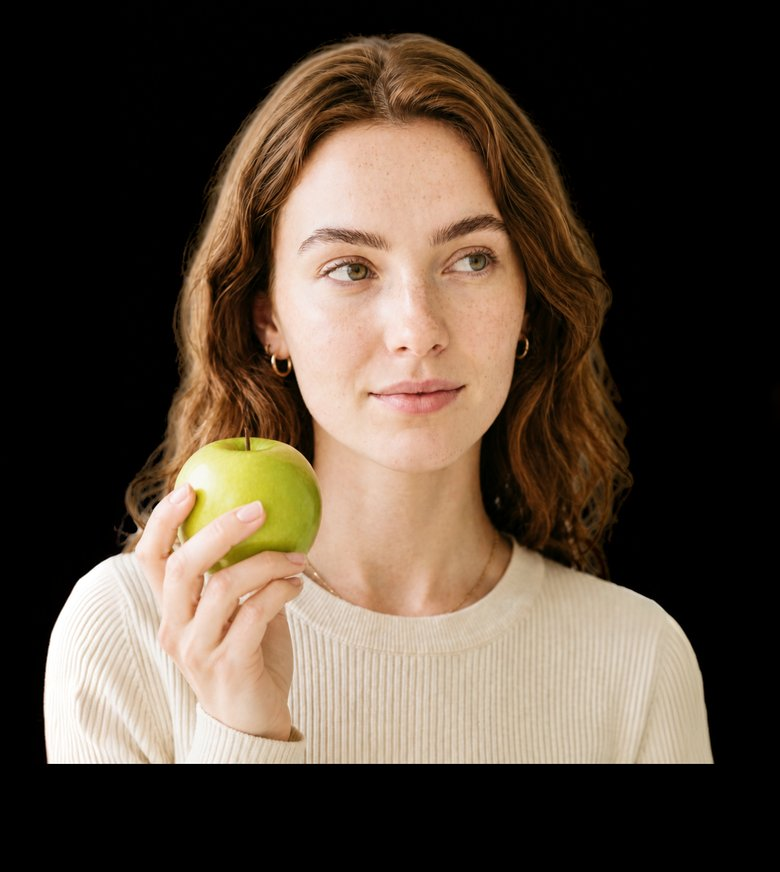
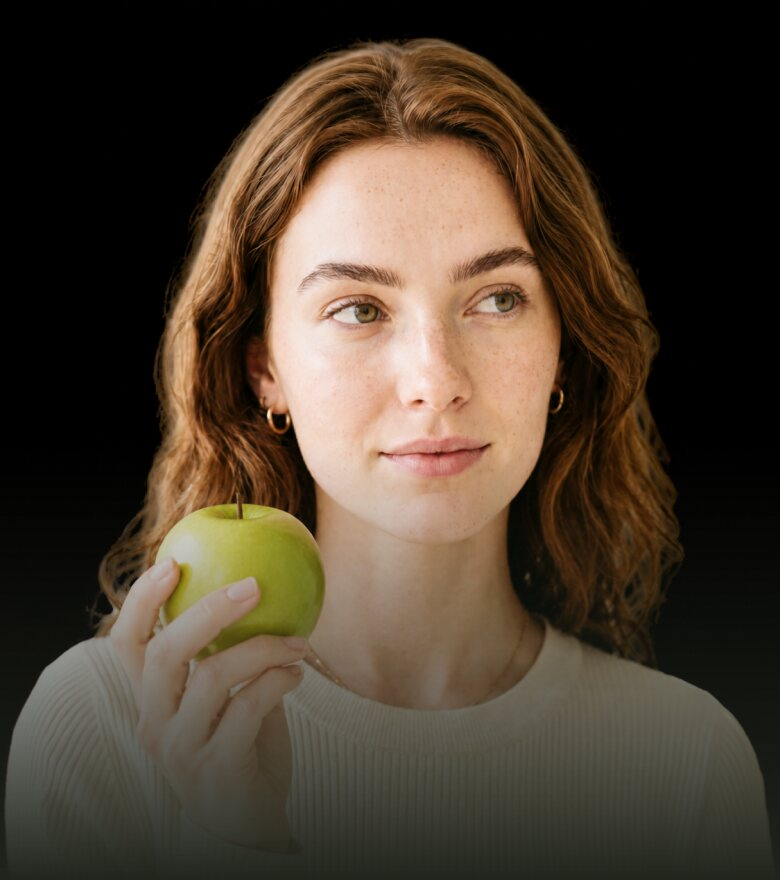
site: home hero matches Figma S01 (1385:283, 1424:48452)
- Desktop background rebuilt from the Figma layers (olive gradient + desaturated waves,
  linear burn, mirrored cut-out) instead of the blog cover; content anchored 64px from the
  bottom, hero height clamp(560px, 100svh, 900px), lifted above the cookie card on short windows.
- Header Transparent: white «Записаться на тест», light download icon, no extra «Связаться».
- CTA uses the mdi-light plus icon, «Пример отчёта» in the same row, desktop fact captions.
- 768–1100: tablet composition (photo background, copy at the bottom) instead of a giant face.
- 390: exported photo frame 1424:48453 fading into olive, texture at 45% over black.

diff --git a/apps/site/app/globals.css b/apps/site/app/globals.css
@@ -2575,3 +2575,90 @@ article.is-open .f-answer > div { opacity: 1; transition-delay: 80ms; }
   .lf-done-mark svg, .lf-ok { animation: none; stroke-dashoffset: 0; }
   .seg-ind, .lf-err, .lf-slide, .m04, .acc-plus::before, .acc-plus::after, .acc-body > div, .f-answer > div { transition: none; }
 }
+
+/* ===========================================================================
+   Home S01 hero — Figma 1385:283 (1440) and 1424:48452 (390).
+   Background = the frame's olive gradient + desaturated waves (linear burn) + the mirrored cut-out,
+   baked into /figma/home/hero-desktop*.webp. Content sits on the bottom edge (64px), so a short
+   window still shows the headline instead of pushing it below the fold.
+   =========================================================================== */
+.fact-d, .fact-m { font-style: normal; }
+.on-dark .example-link img { filter: invert(1); }
+.hero-book-plus { flex: none; }
+@media (min-width: 768px) {
+  body [data-s="s01"].dark-hero.home-hero {
+    position: relative; display: block; box-sizing: border-box;
+    height: clamp(560px, 100svh, 900px); min-height: 0; max-height: none; padding: 0;
+    overflow: hidden; border-radius: 0; background: #21251d;
+  }
+  body [data-s="s01"].home-hero .hero-media { position: absolute; inset: 0; display: block; width: auto; height: auto; max-height: none; margin: 0; background: none; overflow: hidden; }
+  body [data-s="s01"].home-hero .hero-media::after { display: none; }
+  body [data-s="s01"].home-hero .hero-media picture { display: block; position: absolute; inset: 0; }
+  body [data-s="s01"].home-hero .hero-media img.bg {
+    position: absolute; inset: 0; width: 100%; height: 100%; object-fit: cover; object-position: 50% 100%;
+    opacity: 1; mask-image: none; -webkit-mask-image: none;
+  }
+  body [data-s="s01"].home-hero .shade { display: none; }
+  body [data-s="s01"].home-hero .inner {
+    position: absolute; left: 0; right: 0; bottom: 64px; top: auto; z-index: 1;
+    width: min(1344px, calc(100% - 96px)); max-width: none; margin: 0 auto; padding: 0;
+    display: flex; flex-direction: column; gap: 32px; background: none;
+  }
+  body [data-s="s01"].home-hero .hero-top { display: flex; flex-direction: row; align-items: flex-start; justify-content: space-between; gap: 48px; padding: 0; }
+  body [data-s="s01"].home-hero h1 { margin: 0; font-weight: 300; font-size: 64px; line-height: 68px; letter-spacing: -2px; color: #f8f9f6; max-width: 760px; text-align: left; }
+  body [data-s="s01"].home-hero h1 .hero-h1-mobile { display: none; }
+  body [data-s="s01"].home-hero h1 .hero-h1-desktop { display: block; }
+  body [data-s="s01"].home-hero .hero-side { width: 367px; flex: 0 0 367px; padding: 21px 0 0; display: flex; flex-direction: column; gap: 20px; align-self: auto; }
+  body [data-s="s01"].home-hero .lead { margin: 0; max-width: 335px; font-size: 20px; line-height: 24px; color: rgba(248, 249, 246, 0.65); text-align: left; }
+  body [data-s="s01"].home-hero .hero-actions { display: flex; flex-direction: row; flex-wrap: nowrap; align-items: center; gap: 8px; margin: 0; width: auto; white-space: nowrap; }
+  body [data-s="s01"].home-hero .hero-book-btn { width: auto; height: 48px; padding: 0 12px 0 16px; gap: 8px; border-radius: 4px; justify-content: center; font-size: 16px; line-height: 20px; }
+  body [data-s="s01"].home-hero .hero-report-link { display: none; }
+  body [data-s="s01"].home-hero .hero-report-btn { display: inline-flex; height: 48px; padding: 0 16px; border-color: transparent; background: transparent; color: #f8f9f6; }
+  body [data-s="s01"].home-hero .hero-report-btn:hover { background: rgba(248, 249, 246, 0.1); }
+  body [data-s="s01"].home-hero .facts { display: flex; flex-wrap: wrap; gap: 8px; margin: 0; width: auto; }
+  body [data-s="s01"].home-hero .facts > div {
+    flex: none; display: flex; align-items: baseline; gap: 12px; padding: 16px 20px; border-radius: 4px;
+    background: rgba(0, 0, 0, 0.25); backdrop-filter: blur(24px); -webkit-backdrop-filter: blur(24px);
+  }
+  body [data-s="s01"].home-hero .facts > div + div::before { display: none; }
+  body [data-s="s01"].home-hero .facts strong { display: inline; font-size: 24px; line-height: 28px; letter-spacing: -0.5px; font-weight: 300; color: #e7f551; }
+  body [data-s="s01"].home-hero .facts span, body [data-s="s01"].home-hero .facts .facts-lines { display: inline; margin: 0; font-size: 16px; line-height: 20px; color: #f8f9f6; }
+  body [data-s="s01"].home-hero .facts .fact-m { display: none; }
+}
+@media (min-width: 768px) and (max-width: 1100px) {
+  /* Tablet: the light bar header stays on top (as on 390), the photo fills the rest. */
+  body [data-s="s01"].dark-hero.home-hero { height: clamp(560px, 100svh, 900px); padding-top: var(--header); }
+  body [data-s="s01"].home-hero .hero-media { top: var(--header); }
+  body [data-s="s01"].home-hero .inner { bottom: 40px; width: calc(100% - 64px); gap: 24px; }
+  body [data-s="s01"].home-hero .hero-top { flex-direction: column; gap: 16px; }
+  body [data-s="s01"].home-hero h1 { font-size: clamp(40px, 5.2vw, 56px); line-height: 1.07; letter-spacing: -1.5px; }
+  body [data-s="s01"].home-hero .hero-side { width: auto; flex: none; padding: 0; flex-direction: row; align-items: center; justify-content: space-between; gap: 24px; }
+  body [data-s="s01"].home-hero .lead { font-size: 18px; line-height: 22px; max-width: 360px; }
+  body [data-s="s01"].home-hero .facts .fact-d { display: none; }
+  body [data-s="s01"].home-hero .facts .fact-m { display: inline; }
+  body [data-s="s01"].home-hero .facts .facts-lines .fact-m + .fact-m::before { content: " "; }
+}
+@media (min-width: 1101px) and (max-width: 1279px) {
+  body [data-s="s01"].home-hero h1 { font-size: 52px; line-height: 56px; letter-spacing: -1.5px; }
+}
+@media (max-width: 767px) {
+  /* 390: the photo frame 1424:48453 exported as is (440/390, fades into olive), the texture starts under it. */
+  body [data-s="s01"].dark-hero.home-hero { --home-photo-h: calc(440 / 390 * 100vw); background: linear-gradient(rgba(0, 0, 0, 0.55), rgba(0, 0, 0, 0.55)), #000 url("/figma/home/hero-panel-texture.webp") center / cover no-repeat; } /* texture fill at 45% over black */
+  body [data-s="s01"].home-hero .hero-media { background: #000; height: var(--home-photo-h); max-height: none; }
+  body [data-s="s01"].home-hero .hero-media::after { display: none; }
+  body [data-s="s01"].home-hero .hero-media img.bg { object-position: 50% 0; }
+  body [data-s="s01"].home-hero .inner {
+    margin-top: 0; padding: 0 20px 32px;
+    background: none;
+  }
+  body [data-s="s01"].home-hero .hero-top { gap: 16px; }
+  body [data-s="s01"].home-hero .lead { font-size: 16px; line-height: 20px; color: rgba(248, 249, 246, 0.65); }
+  body [data-s="s01"].home-hero .facts .fact-d { display: none; }
+  body [data-s="s01"].home-hero .facts .fact-m { display: block; }
+  body [data-s="s01"].home-hero .hero-book-plus { width: 24px; height: 24px; }
+}
+/* A short window with the cookie card up: lift the hero copy above the card instead of hiding it. */
+@media (min-width: 768px) and (max-height: 820px) {
+  body [data-s="s01"].home-hero .inner { transition: bottom 280ms var(--ease); }
+  body:has(.cookie:not(.is-leaving)) [data-s="s01"].home-hero .inner { bottom: 136px; }
+}

diff --git a/apps/site/components/HomePage.tsx b/apps/site/components/HomePage.tsx
@@ -334,12 +334,13 @@ export function HomePage() {
           <div className="hero-media">
             <picture>
               <source
-                media="(max-width: 1100px)"
+                media="(max-width: 767px)"
                 srcSet="/figma/home/hero-photo-mobile.webp"
                 type="image/webp"
               />
-              <source media="(max-width: 1100px)" srcSet="/figma/home/hero-photo-mobile.jpg" />
-              <img className="bg" src="/blog/cover-lactose.png" alt="" />
+              <source media="(max-width: 767px)" srcSet="/figma/home/hero-photo-mobile.jpg" />
+              <source srcSet="/figma/home/hero-desktop.webp 1x, /figma/home/hero-desktop@2x.webp 2x" type="image/webp" />
+              <img className="bg" src="/figma/home/hero-desktop.jpg" alt="" />
             </picture>
           </div>
           <div className="shade" aria-hidden />
@@ -358,7 +359,9 @@ export function HomePage() {
                 <div className="hero-actions">
                   <button className="btn btn-light hero-book-btn" type="button" onClick={() => window.dispatchEvent(new Event("fox:book"))}>
                     <span>Записаться на тест</span>
-                    <span className="hero-book-plus" aria-hidden>+</span>
+                    <svg className="hero-book-plus" viewBox="0 0 24 24" width="24" height="24" aria-hidden>
+                      <path d="M12 5v14M5 12h14" fill="none" stroke="currentColor" strokeWidth="1.2" strokeLinecap="round" />
+                    </svg>
                   </button>
                   <Link className="hero-report-link" href="/report">
                     Пример отчёта
@@ -370,9 +373,10 @@ export function HomePage() {
               </div>
             </div>
             <div className="facts">
+              {/* Desktop frame 1385:283 says «286 продуктов · покажет тест», «7–10 дней · до результата»; the 390 frame keeps the short form. */}
               <div><strong>1 сеанс</strong><span>сдачи крови</span></div>
-              <div><strong>286</strong><span>продуктов</span></div>
-              <div><strong>7–10</strong><span className="facts-lines"><span>дней до</span><span>результата</span></span></div>
+              <div><strong>286<i className="fact-d"> продуктов</i></strong><span><i className="fact-d">покажет тест</i><i className="fact-m">продуктов</i></span></div>
+              <div><strong>7–10<i className="fact-d"> дней</i></strong><span className="facts-lines"><i className="fact-d">до результата</i><span className="fact-m">дней до</span><span className="fact-m">результата</span></span></div>
             </div>
           </div>
         </section>

diff --git a/apps/site/e2e/site.spec.ts b/apps/site/e2e/site.spec.ts
@@ -66,7 +66,8 @@ test("dark hero sits under the header", async ({ page }) => {
       const h = header.getBoundingClientRect();
       const e = hero.getBoundingClientRect();
       const mobile = window.matchMedia("(max-width: 1100px)").matches;
-      if (route === "/" && mobile) {
+      const phone = window.matchMedia("(max-width: 767px)").matches;
+      if (route === "/" && phone) {
         const photo = document.querySelector("[data-s='s01'] .hero-media img");
         const h1 = document.querySelector("[data-s='s01'] h1");
         if (!photo || !h1) return false;
@@ -76,9 +77,11 @@ test("dark hero sits under the header", async ({ page }) => {
         return (
           header.classList.contains("is-home-top") &&
           photoRect.top >= headerH - 2 &&
-          h1Rect.top >= photoRect.bottom + 20
+          h1Rect.top >= photoRect.bottom - 2
         );
       }
+      // Tablet home keeps the light bar header above the full-bleed photo.
+      if (route === "/" && mobile) return header.classList.contains("is-home-top") && e.top <= 2 && e.bottom > h.bottom;
       return e.top <= 2 && e.bottom > h.bottom && header.classList.contains("on-dark");
     }, path);
     expect(overlap, path).toBe(true);

diff --git a/apps/site/components/Header.tsx b/apps/site/components/Header.tsx
@@ -141,8 +141,8 @@ export function Header() {
           <span className="cabinet-pill">Кабинет курса</span>
         ) : variant === "site" ? (
           <>
-            <button className="btn btn-ghost header-contact" type="button" onClick={() => window.dispatchEvent(new Event("fox:contact"))}>Связаться</button>
-            <button className="btn btn-dark" type="button" onClick={() => window.dispatchEvent(new Event("fox:book"))}>Записаться на тест</button>
+            {/* Figma Header (1069:409): «Пример результата» + one button; white on the transparent state. */}
+            <button className={`btn ${onDark ? "btn-light" : "btn-dark"}`} type="button" onClick={() => window.dispatchEvent(new Event("fox:book"))}>Записаться на тест</button>
           </>
         ) : (
           <Link className="btn btn-dark" href="/course">Зарегистрироваться на курс</Link>
